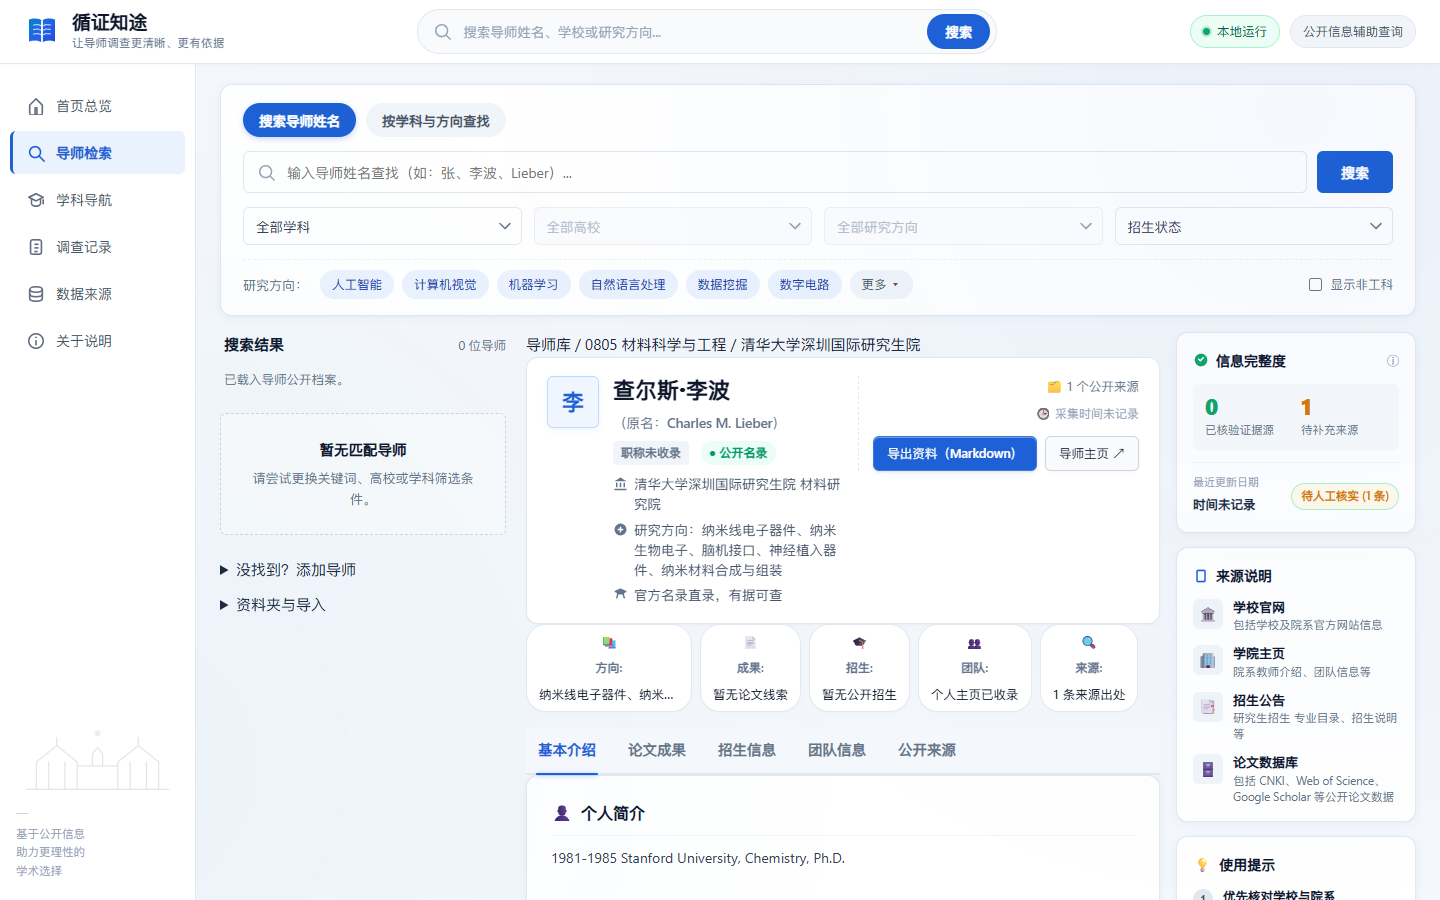
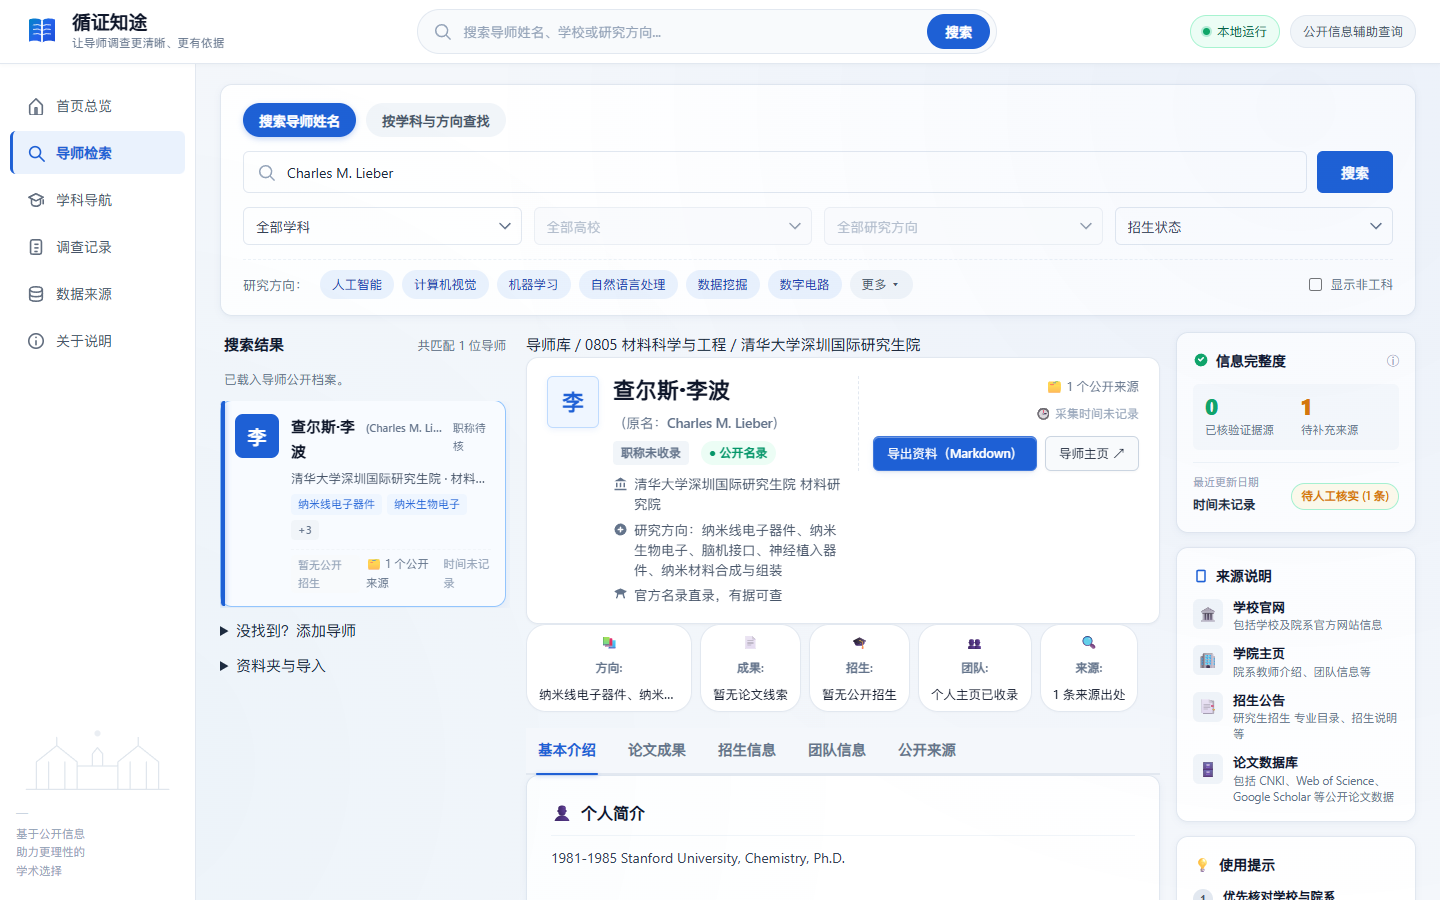
fix(ui): 还原数据来源顶图纯净居中排版与原始微浮动动效
- 移除数据来源页 (#sourcesView) 额外插入的 SVG 汇聚轨道与网格层，消除对容器弹性居中的挤压
- 还原 .sources-flow-art-wrap 纯净居中布局，为 picture/img 增加明确的水平居中约束 (margin: 0 auto 与 flex center)
- 恢复 .sources-flow-img 原有的 subtleSourcesFloat 缓动微浮动与 scale(1.02) 悬停效果
- 移除 additions.js 中针对该卡片的额外流向联动监听，降低 DOM 开销
- 更新官方验收截图 docs/screenshots/06-sources.png，数学测算容器与图片水平中心偏差 0.000px
- 全量自动化测试 (1135 项 Python 单元测试、Playwright 视觉交互与资产流测试、编码体检) 100% 通过

diff --git a/workbench/web/assets/desk.css b/workbench/web/assets/desk.css
@@ -2677,20 +2677,28 @@ body{overflow-wrap:anywhere}
   box-shadow: 0 16px 36px -8px rgba(30, 96, 213, 0.16), 0 0 0 1px rgba(30, 96, 213, 0.12);
 }
 
+.sources-flow-art-wrap picture {
+  display: flex;
+  justify-content: center;
+  align-items: center;
+  width: 100%;
+}
+
 .sources-flow-img {
   width: 100%;
   max-width: 720px;
   height: auto;
   display: block;
-  filter: drop-shadow(0 8px 20px rgba(30, 96, 213, 0.09));
-  animation: none;
-  transition: transform 0.35s var(--ease), filter 0.35s var(--ease);
+  margin: 0 auto;
+  filter: drop-shadow(0 10px 24px rgba(30, 96, 213, 0.10));
+  animation: subtleSourcesFloat 8s ease-in-out infinite alternate;
+  transition: transform 0.35s cubic-bezier(0.34, 1.56, 0.64, 1), filter 0.35s var(--ease);
   will-change: transform, filter;
 }
 
 .sources-flow-img:hover {
-  transform: scale(1.008);
-  filter: drop-shadow(0 14px 28px rgba(30, 96, 213, 0.15));
+  transform: scale(1.02);
+  filter: drop-shadow(0 18px 36px rgba(30, 96, 213, 0.18));
 }
 
 /* 关于说明页：左文右图平衡排版 */
@@ -2946,69 +2954,5 @@ body{overflow-wrap:anywhere}
   }
   .records-visual-box {
     display: none;
-  }
-}
-
-
-/* ── 数据来源 Stream Convergence 汇聚辅助轨 ── */
-.sources-flow-art-wrap {
-  position: relative;
-}
-.sources-flow-art-wrap::before {
-  content: "";
-  position: absolute;
-  inset: 0;
-  background-image: 
-    radial-gradient(circle at 50% 50%, rgba(30, 96, 213, 0.06) 0%, transparent 65%),
-    linear-gradient(to right, rgba(30, 96, 213, 0.04) 1px, transparent 1px),
-    linear-gradient(to bottom, rgba(30, 96, 213, 0.04) 1px, transparent 1px);
-  background-size: 100% 100%, 24px 24px, 24px 24px;
-  pointer-events: none;
-  border-radius: inherit;
-  opacity: 0.7;
-}
-.convergence-rail {
-  position: absolute;
-  pointer-events: none;
-  stroke: rgba(30, 96, 213, 0.22);
-  stroke-dasharray: 4 6;
-  animation: convergenceFlow 20s linear infinite;
-}
-@keyframes convergenceFlow {
-  to { stroke-dashoffset: -100; }
-}
-@media (prefers-reduced-motion: reduce) {
-  .convergence-rail { animation: none !important; }
-}
-
-
-/* ── Stream Convergence 辅助画布与细线流光 ── */
-.convergence-rail-canvas {
-  position: absolute;
-  inset: 0;
-  width: 100%;
-  height: 100%;
-  pointer-events: none;
-  z-index: 0;
-  overflow: visible;
-}
-.convergence-rail {
-  stroke: rgba(30, 96, 213, 0.28);
-  stroke-width: 1.2;
-  stroke-dasharray: 4 6;
-  animation: convergenceDash 24s linear infinite;
-}
-.sources-flow-art-wrap.source-focus-flow .convergence-rail {
-  stroke: rgba(30, 96, 213, 0.65);
-  stroke-width: 1.6;
-}
-@keyframes convergenceDash {
-  to {
-    stroke-dashoffset: -100;
-  }
-}
-@media (prefers-reduced-motion: reduce) {
-  .convergence-rail {
-    animation: none !important;
   }
 }

diff --git a/workbench/web/desk.html b/workbench/web/desk.html
@@ -754,19 +754,6 @@
             <p>循证知途坚持客观事实、证据可溯与中立公开四大基本准则。</p>
           </div>
           <div class="sources-flow-art-wrap" aria-hidden="true">
-            <!-- ThreeUI 灵感：Stream Convergence 汇聚流轨辅助层 (SVG 轻量原生实现) -->
-            <svg class="convergence-rail-canvas" viewBox="0 0 720 220" fill="none" xmlns="http://www.w3.org/2000/svg" aria-hidden="true">
-              <path class="convergence-rail rail-tl" d="M 30 25 C 160 25, 230 75, 360 110" />
-              <path class="convergence-rail rail-tr" d="M 690 25 C 560 25, 490 75, 360 110" />
-              <path class="convergence-rail rail-bl" d="M 30 195 C 160 195, 230 145, 360 110" />
-              <path class="convergence-rail rail-br" d="M 690 195 C 560 195, 490 145, 360 110" />
-              <circle cx="30" cy="25" r="2.5" fill="#3b82f6" opacity="0.7"/>
-              <circle cx="690" cy="25" r="2.5" fill="#3b82f6" opacity="0.7"/>
-              <circle cx="30" cy="195" r="2.5" fill="#3b82f6" opacity="0.7"/>
-              <circle cx="690" cy="195" r="2.5" fill="#3b82f6" opacity="0.7"/>
-              <circle cx="360" cy="110" r="3" fill="#1e60d5" opacity="0.6"/>
-              <circle cx="360" cy="110" r="8" stroke="#1e60d5" stroke-width="0.8" opacity="0.3"/>
-            </svg>
             <picture>
               <source srcset="/assets/visuals/source-academic.webp" type="image/webp">
               <img src="/assets/visuals/source-academic.png" alt="" class="sources-flow-img" width="720" height="212" loading="lazy">

diff --git a/workbench/web/assets/additions.js b/workbench/web/assets/additions.js
@@ -211,20 +211,4 @@ function setupAddMentor() {
       return;
     }
   });
-
-  // 3. 数据来源多源汇聚交互 (Stream Convergence Hover Linkage)
-  const sourceBentoCards = document.querySelectorAll('#sourcesView .bento-card-item');
-  const sourcesWrap = document.querySelector('.sources-flow-art-wrap');
-  if (sourceBentoCards && sourcesWrap) {
-    sourceBentoCards.forEach(function(card, idx) {
-      card.addEventListener('mouseenter', function() {
-        sourcesWrap.classList.add('source-focus-flow');
-        sourcesWrap.dataset.activeStream = String(idx);
-      });
-      card.addEventListener('mouseleave', function() {
-        sourcesWrap.classList.remove('source-focus-flow');
-        delete sourcesWrap.dataset.activeStream;
-      });
-    });
-  }
 })();

diff --git a/tools/capture_official_screenshots.py b/tools/capture_official_screenshots.py
@@ -22,7 +22,7 @@ def capture():
 
         # 1. 01-home.png
         print("1. Capturing 01-home.png...")
-        page.goto(f"{BASE_URL}/?view=home", wait_until="networkidle")
+        page.goto(f"{BASE_URL}/?view=home", wait_until="domcontentloaded")
         page.wait_for_selector("#homeView:not([hidden])")
         page.wait_for_selector(".hero-art-img")
         page.wait_for_timeout(500)
@@ -30,7 +30,7 @@ def capture():
 
         # 2. 02-dossier.png
         print("2. Capturing 02-dossier.png...")
-        page.goto(f"{BASE_URL}/?view=workspace&mentor=legacy-70d0b480a18a3704f200", wait_until="networkidle")
+        page.goto(f"{BASE_URL}/?view=workspace&mentor=legacy-70d0b480a18a3704f200", wait_until="domcontentloaded")
         page.wait_for_selector("#dossier:not([hidden])")
         page.wait_for_selector("#pane-identity:not([hidden])")
         page.wait_for_timeout(600)
@@ -45,7 +45,7 @@ def capture():
 
         # 4. 04-discipline.png
         print("4. Capturing 04-discipline.png...")
-        page.goto(f"{BASE_URL}/?view=discipline", wait_until="networkidle")
+        page.goto(f"{BASE_URL}/?view=discipline", wait_until="domcontentloaded")
         page.wait_for_selector("#disciplineNavView:not([hidden])")
         page.wait_for_selector(".discipline-card-btn")
         page.wait_for_timeout(500)
@@ -53,7 +53,7 @@ def capture():
 
         # 5. 05-records.png
         print("5. Capturing 05-records.png...")
-        page.goto(f"{BASE_URL}/?view=records", wait_until="networkidle")
+        page.goto(f"{BASE_URL}/?view=records", wait_until="domcontentloaded")
         page.wait_for_selector("#recordsView:not([hidden])")
         page.wait_for_selector(".records-empty-img")
         page.wait_for_timeout(500)
@@ -61,7 +61,7 @@ def capture():
 
         # 6. 06-sources.png
         print("6. Capturing 06-sources.png...")
-        page.goto(f"{BASE_URL}/?view=sources", wait_until="networkidle")
+        page.goto(f"{BASE_URL}/?view=sources", wait_until="domcontentloaded")
         page.wait_for_selector("#sourcesView:not([hidden])")
         page.wait_for_selector(".sources-flow-img")
         page.wait_for_timeout(500)
@@ -69,7 +69,7 @@ def capture():
 
         # 7. 07-eval.png
         print("7. Capturing 07-eval.png...")
-        page.goto(f"{BASE_URL}/eval", wait_until="networkidle")
+        page.goto(f"{BASE_URL}/eval", wait_until="domcontentloaded")
         page.wait_for_selector(".site-head")
         page.wait_for_selector(".page-hero")
         page.wait_for_timeout(800)

diff --git a/tools/test_visual_assets_flow.py b/tools/test_visual_assets_flow.py
@@ -192,7 +192,7 @@ def run_visual_acceptance():
         shot_eval = SCREENSHOTS_DIR / "visual_08_eval_1440x900.png"
         page.screenshot(path=str(shot_eval))
         print(f"  [OK] 算法评测看板截图已保存: {shot_eval.name}")
-        page.screenshot(path=str(DOCS_SCREENSHOTS_DIR / "06-eval-overview.png"))
+        page.screenshot(path=str(DOCS_SCREENSHOTS_DIR / "07-eval.png"))
 
         context.close()
 

diff --git a/docs/DESIGN.md b/docs/DESIGN.md
@@ -17,7 +17,7 @@
 | **TactileButton** | 触觉式实体按压反馈：双层精细渐变边框、内嵌高光（`inset 0 1px 0 rgba(255,255,255,0.35)`）、分层深度投影（接触影 + 柔和漫反射环境影）、按压行程下沉（`translateY(1px) scale(0.985)`）。 | 应用于首页「开始检索导师」主按钮、工作台「搜索」按钮、档案 Tab 选项卡、调查记录保存操作与各类关键动作，带给用户坚实笃定的操作触感。 |
 | **DotBorderButton & InterfaceLines** | 精密仪器与工程图纸秩序：1px 细线边界、两端平滑淡出渐变、边角精密定位微标记方块（Corner micro ticks）、轻量网格结构。 | 应用于首页 Bento 能力卡片边缘、四步工作流步骤框、导师搜索框聚焦态、学科卡片边框与激活导师卡片左侧指示条。 |
 | **ConnectivityGraph** | 几何结构感与视线引导：严谨的拓扑秩序、细线连接关系、步骤间流向指示。 | 应用于首页「定位—核对—查阅证据—保存记录」工作流导轨，形成文档式自然展开的流水线认知；严禁用于生成虚构的人际关系或无证据导师图谱。 |
-| **StreamConvergenceBackground** | 多流汇聚与证据核验概念：多源信息流向中心核心位置平滑汇聚。 | 应用于数据来源页面（`#sourcesView`）：在中心晶体证据账本外围，使用轻量原生 SVG 虚线流轨与微脉冲节点，直观传达“高校官网、学院名录、招生公告、学术数据”四路汇聚交叉核对的核心语义。 |
+| **StreamConvergence (多流汇聚架构)** | 多流汇聚与证据核验概念：多源信息向中心客观核查。 | 展现在数据来源页面（`#sourcesView`）：纯净居中的多源汇聚架构图与客观核查原则卡片，直观传达高校官网、学院名录、学术数据库多源信息汇聚核验的准则。 |
 | **PredictiveArc & SemanticBloom** | 局部动态组织与状态平滑过渡：从静止引导平稳过渡到结果状态，视觉锚点稳定，信息逐层落位。 | 应用于导师检索从“空状态”到“完整档案”的轻量淡入，档案标签页（基本介绍、论文成果、招生信息、团队信息、公开来源）切换时的平滑指示线，杜绝科幻式文字重组或翻转。 |
 
 ---
@@ -32,7 +32,7 @@
 | **导师检索工作台** | `#workspaceView` | 核心调查工作区。三栏分层：左栏导师匹配卡片列表（~28%）、中栏五分区档案详情（~52%）、右栏真实完整度与使用提示（~20%）。 |
 | **工学学科导航** | `#disciplineNavView` | 教育部规范工学 38 个一级学科分类目录、代码即时筛选、晶体星轨插画。 |
 | **本地调查手记** | `#recordsView` | 本地私密调查手记，数据 100% 留存在本机浏览器与本地存储中，不上传云端，保障调查隐私。 |
-| **数据来源与核查** | `#sourcesView` | 数据来源规范、客观中立不排名声明、中心晶体证据账本配合 Stream Convergence 汇聚流轨层。 |
+| **数据来源与核查** | `#sourcesView` | 数据来源规范、客观中立不排名声明、中心纯净居中的多源汇聚架构插画与客观核验准则。 |
 | **关于说明** | `#aboutView` | 本地安全承诺、MIT 开源透明协议、3D 玻璃工作台图文平衡对仗。 |
 | **算法评测独立看板** | `/eval` | 独立路由页面，提供检索效果、方向推断、同名消歧与真实评测用例的完整可复现看板。 |
 
